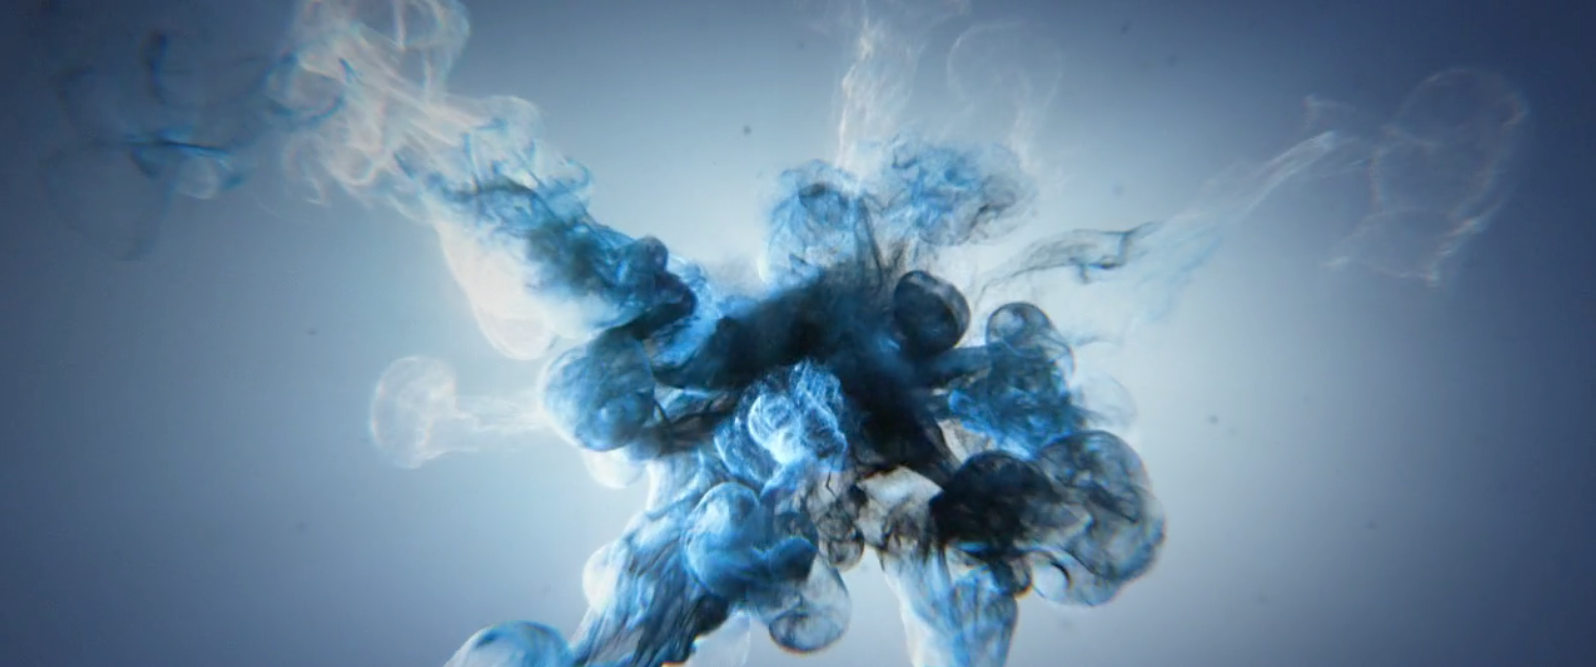
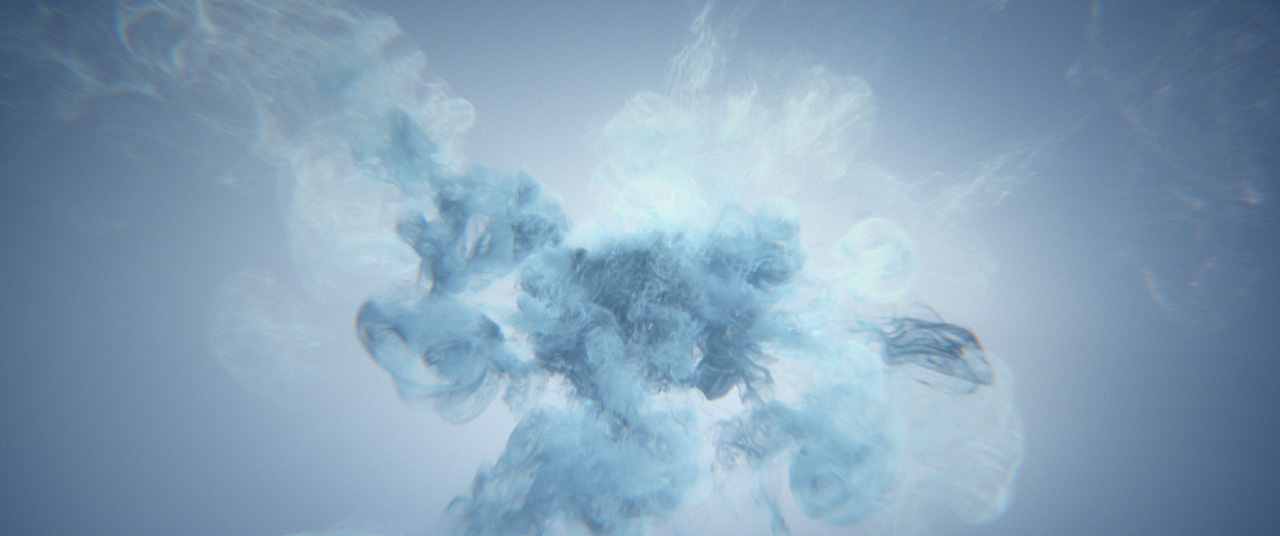
hydra-19 fallback img, size and position for mobile/tablet

diff --git a/hydra/templates/hydra/index.html b/hydra/templates/hydra/index.html
@@ -49,8 +49,8 @@
 				<div class="headercol" id="logo">
 					<img src="{{ STATIC_URL }}img/logo.png">
 				</div>
-				<div class="headercol"><div class="verticalline"><a class="aboutactivator" id="aboutactivator"><p class="topnav"><strong>ABOUT US/</strong><br>WHAT WE DO</p></a></div></div>
-				<div class="headercol"><div class="verticalline"><a class="newsletteractivator" id="newsletteractivator"><p class="topnav"><strong>NEWSLETTER/</strong><br>SIGN UP</p></a></div></div>
+				<div class="headercol"><div class="verticalline"><a class="aboutactivator" id="aboutactivator"><p class="topnav"><strong>ABOUT US/</strong><br />WHAT WE DO</p></a></div></div>
+				<div class="headercol"><div class="verticalline"><a class="newsletteractivator" id="newsletteractivator"><p class="topnav"><strong>NEWSLETTER/</strong><br />SIGN UP</p></a></div></div>
 			</div>
 		</div>
 	</header>
@@ -108,16 +108,16 @@
 				<div class="row">
 				<div class="fivecol" style="text-align:left;">
 					<div id="mobileonlyhacks">
-						<br><br><br>
+						<br /><br /><br />
 					</div>
 				<p class="topnav"><strong>NEWSLETTER/</strong> SIGN UP FOR UPDATES</p>
 				</div>
 				</div>
 				<div id="mobileonlyhacks">
-					<br><br><br>
+					<br /><br /><br />
 				</div>
 				<div id="mobileonlyhacks">
-					<br><br><br>
+					<br /><br /><br />
 				</div>
 				<div class="row" id="signrow">
 					<div class="signcol" style="margin-top:10px;margin-right:0px;">
@@ -126,17 +126,17 @@
 						<div id="nameerror" style="display:none;">Please enter your first name.</div>
 					</div>
 					<div id="mobileonlyhacks">
-						<br><br><br>
+						<br /><br /><br />
 					</div>
 					<div class="signcol" style="margin-top:10px;">
 							<input class="signupinput" type="text" name="email" id="id_email" value="YOUR EMAIL" />
 							<div id="emailerror" style="display:none;">Please enter a valid email address.</div>							
 					</div>
 					<div id="mobileonlyhacks">
-						<br><br><br>
+						<br /><br /><br />
 					</div>
 					<div id="mobileonlyhacks">
-						<br><br><br>
+						<br /><br /><br />
 					</div>
 					<div class="subcol">
 							<button class="signup" type="submit" id="signup">SIGN UP</button>
@@ -168,17 +168,21 @@
 			</div>
 	
  		<!-- main singlecol -->
+			<div id="bg_mobile">
+			<img src="{{ STATIC_URL }}img/bg_fallback.jpg">
+			</div>
 			<div class="singlecol" id="logo">
 				<img src="{{ STATIC_URL }}img/logo.png">
 			</div>
 			<div id="mobilemain">
-			<div class="singlecol"><div class="verticalline"><a class="aboutactivator" id="aaboutactivator"><p class="topnav"><strong>ABOUT US/</strong><br>WHAT WE DO</p></a></div></div>
-			<div class="singlecol"><div class="verticalline"><a class="newsletteractivator" id="nnewsletteractivator"><p class="topnav"><strong>NEWSLETTER/</strong><br>SIGN UP</p></a></div></div>
+			<div class="singlecol"><div class="verticalline"><a class="aboutactivator" id="aaboutactivator"><p class="topnav"><strong>ABOUT US/</strong><br />WHAT WE DO</p></a></div></div>
+			<div class="singlecol"><div class="verticalline"><a class="newsletteractivator" id="nnewsletteractivator"><p class="topnav"><strong>NEWSLETTER/</strong><br />SIGN UP</p></a></div></div>
 
-			<div class="singlecol"><div class="verticalline" style="border-top:thin solid #484848;"><p class="topnav"><strong>EMAIL</strong><br><a href="mailto:info@hydra.com">INFO@HYDRA.COM</a></p></div></div>
-			<div class="singlecol"><div class="verticalline" style="border-bottom:none;"><p class="topnav"><strong>PHONE</strong><br>800-123-4567</p></div></div>
-			</div>
+			<div class="singlecol"><div class="verticalline" style="border-top:thin solid #484848;"><p class="topnav"><strong>EMAIL</strong><br /><a href="mailto:info@hydra.com">INFO@HYDRA.COM</a></p></div></div>
+			<div class="singlecol"><div class="verticalline" style="border-bottom:none;"><p class="topnav"><strong>PHONE</strong><br />800-123-4567</p></div></div>
+			
 			<div style="margin-left:0;margin-right:0;margin-bottom:0;padding-top:2px;width:100%;background:#000000;position:fixed;left:0;bottom:0;height:20px;"><div class="verticalline" style="border-bottom:none;color:#ffffff;font-size:.5em;"><p class="topnav"><strong>HYDRA.</strong> | &copy; 2012 Hydra. All Rights Reserved.</p></div></div>
+			</div>
 			</div>
 
 		<!-- html5 background video -->
@@ -203,11 +207,11 @@
 					<p class="darkgrey" id="footertext" style="margin-bottom:2%;"><strong style="color:#ffffff;">HYDRA.</strong> | &copy; 2012 Hydra. All Rights Reserved.</p>
 				</div>
 				<div class="onecol" id="footercontact" style="text-align:left;">
-					<p class="footerverticalline" id="footertext">EMAIL<br><strong class="lightgrey"><a href="mailto:info@hydra.com">INFO@HYDRA.COM</a></strong>
+					<p class="footerverticalline" id="footertext">EMAIL<br /><strong class="lightgrey"><a href="mailto:info@hydra.com">INFO@HYDRA.COM</a></strong>
 					</p>
 				</div>
 				<div class="onecol" id="footerphonecontact">
-					<p class="footerverticalline" id="footertext">PHONE<br><strong class="lightgrey">800-123-4567</strong>
+					<p class="footerverticalline" id="footertext">PHONE<br /><strong class="lightgrey">800-123-4567</strong>
 					</p>
 				</div>
 			</div>

diff --git a/static/css/1140.css b/static/css/1140.css
@@ -344,8 +344,31 @@ img {
 	
 	body {
 	font-size: .75em;
-	background: transparent url(../img/mobile_bg.jpg);
+	background: transparent;
+	background-size:contain;
 	}
+	
+	#bg_mobile {
+		position:fixed;
+		top:-50%;
+		left:-50%;
+		width:200%;
+		height:200%;
+		display:inline;
+		z-index:-10;
+	}
+	#bg_mobile img {
+		position:absolute;
+		top:0;
+		left:0;
+		right:0;
+		bottom:0;
+		margin:auto;
+		min-width:50%;
+		min-height:50%;
+		display:inline;
+	}
+	
 	
 	#mobilemain {
 	font-size:.4em;
@@ -636,6 +659,29 @@ img {
 	font-size: .75em;
 	background: transparent url(../img/mobile_bg.jpg);
 	}
+	
+	#bg_mobile {
+		position:fixed;
+		top:-50%;
+		left:-50%;
+		width:200%;
+		height:200%;
+		display:inline;
+		z-index:-10;
+	}
+	#bg_mobile img {
+		position:absolute;
+		top:0;
+		left:0;
+		right:0;
+		bottom:0;
+		margin:auto;
+		min-width:50%;
+		min-height:50%;
+		display:inline;
+	}
+	
+	
 	
 	#mobilemain {
 	font-size:.4em;

diff --git a/static/css/style.css b/static/css/style.css
@@ -534,6 +534,9 @@ input.signupinput {
 	min-height:50%;
 }
 
+#bg_mobile {
+	display:none;
+}
 
 .row .boxcol {
 	position:fixed;
